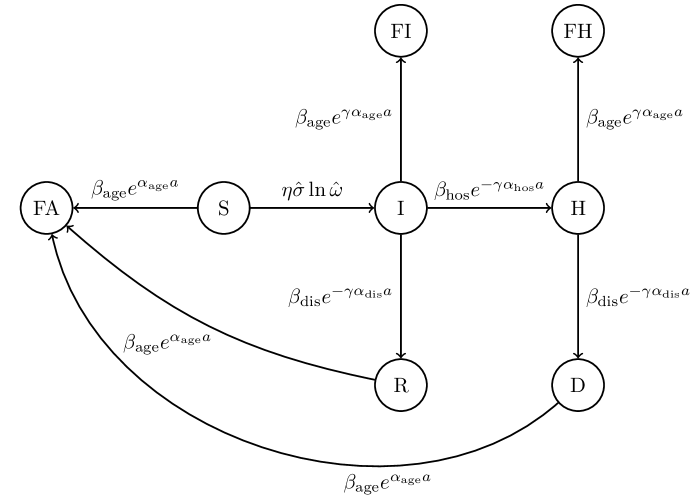
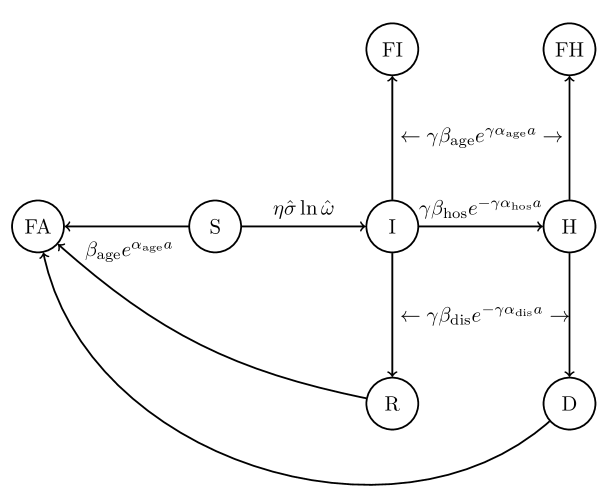
Big fix of incorrect accelerated hazard

diff --git a/docs/vonFoersterHazards.tex b/docs/vonFoersterHazards.tex
@@ -25,14 +25,14 @@
     \node[state] (FI) [above of=I]  {FI};
     \node[state] (FH) [above of=H]  {FH};
     \path
-      (S) edge node [above] {$\beta_\text{age} e^{\alpha_\text{age} a}$} (FA)
+      (S) edge (FA)
       (S) edge node [above] {$\eta\hat{\sigma} \ln\hat{\omega}$} (I)
-      (I) edge node [above] {$\beta_\text{hos} e^{-\gamma\alpha_\text{hos} a}$} (H)
-      (I) edge node [left] {$\beta_\text{dis} e^{-\gamma\alpha_\text{dis} a}$} (R)
-      (H) edge node [right] {$\beta_\text{dis} e^{-\gamma\alpha_\text{dis} a}$} (D)
-      (I) edge node [left] {$\beta_\text{age} e^{\gamma\alpha_\text{age} a}$} (FI)
-      (H) edge node [right] {$\beta_\text{age} e^{\gamma\alpha_\text{age} a}$} (FH)
-      (R) edge [bend left=15] node [below] {$\beta_\text{age} e^{\alpha_\text{age} a}\qquad\qquad$} (FA)
-      (D) edge [bend left=60] node [below, pos=0.3] {$\beta_\text{age} e^{\alpha_\text{age} a}$} (FA);
+      (I) edge node [above] {$\gamma\beta_\text{hos} e^{-\gamma\alpha_\text{hos} a}$} (H)
+      (I) edge node [right] {$\leftarrow\gamma\beta_\text{dis} e^{-\gamma\alpha_\text{dis} a}\rightarrow$} (R)
+      (H) edge (D)
+      (I) edge node [right] {$\leftarrow\gamma\beta_\text{age} e^{\gamma\alpha_\text{age} a}\rightarrow$} (FI)
+      (H) edge (FH)
+      (R) edge [bend left=15] node [above, pos=0.9] {$\qquad\qquad\beta_\text{age} e^{\alpha_\text{age} a}$} (FA)
+      (D) edge [bend left=60] (FA);
   \end{tikzpicture}
 \end{document}
